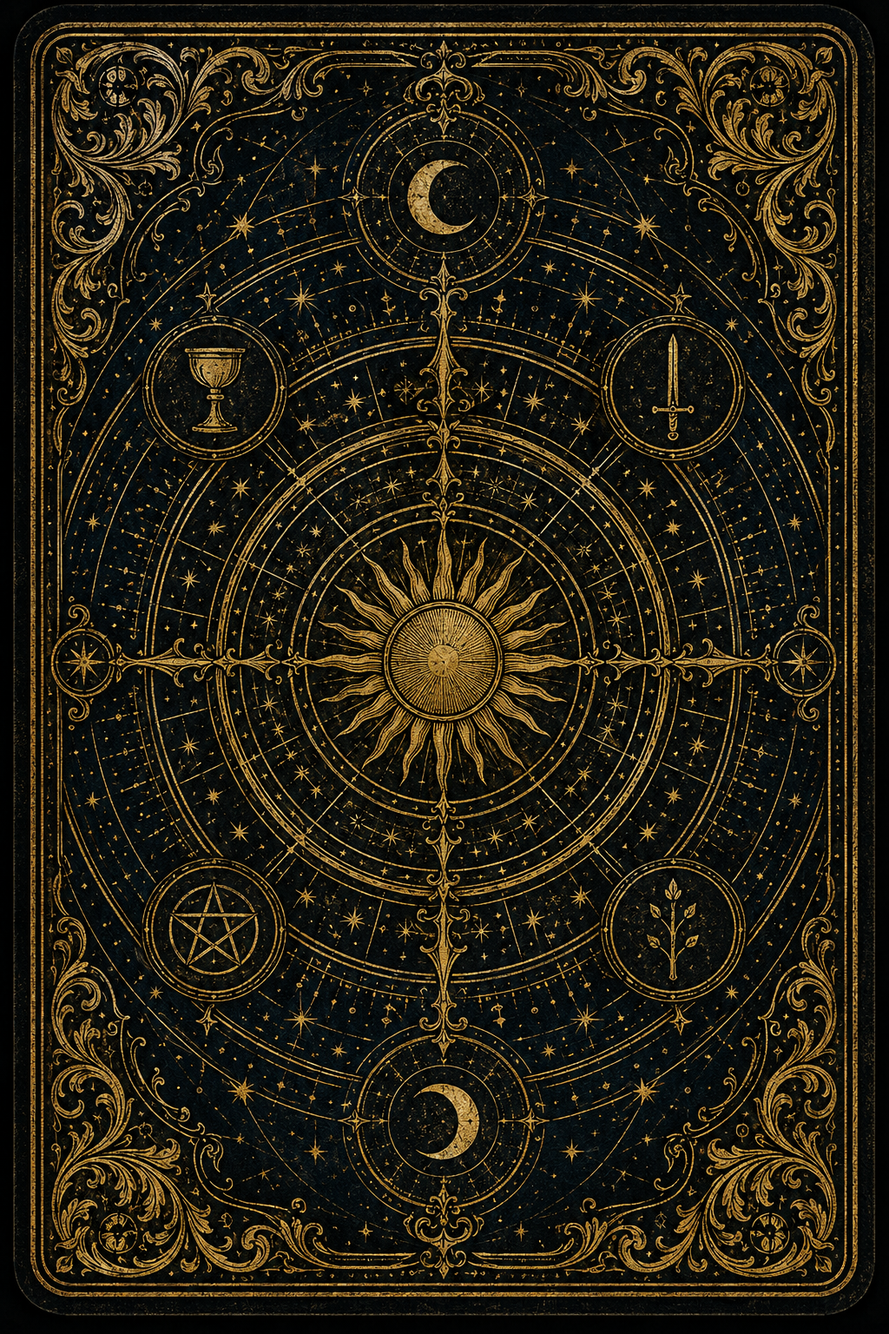
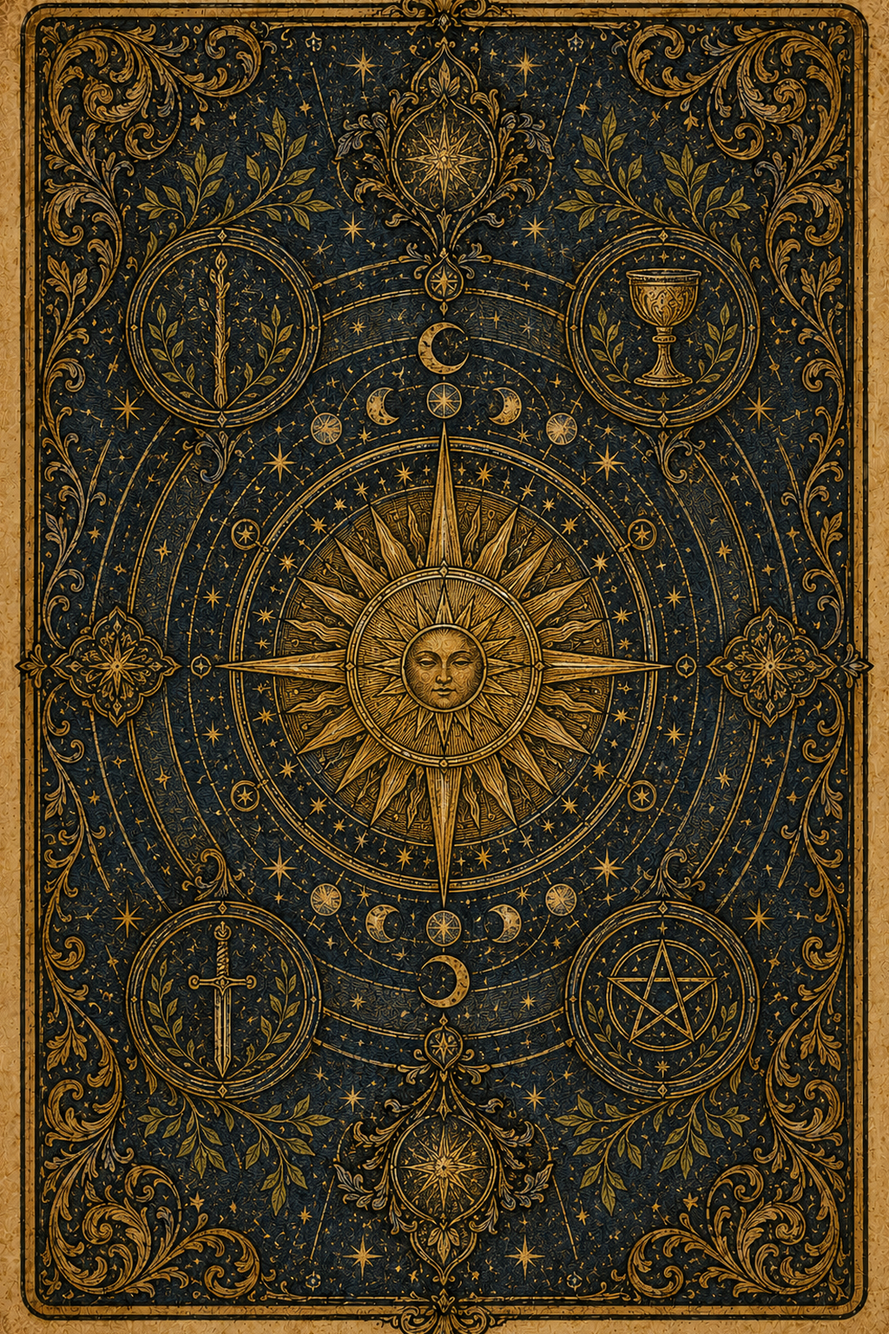
Add tarot card back preview to virtual deck

diff --git a/telegram_bot/handlers.py b/telegram_bot/handlers.py
@@ -28,7 +28,7 @@ from app_core.tarot.selection import (
     create_virtual_deck_draft,
 )
 from app_core.tarot.spreads import get_spread
-from telegram_bot.card_assets import get_oriented_card_image_path
+from telegram_bot.card_assets import get_card_back_image_path, get_oriented_card_image_path
 from telegram_bot.formatting import (
     build_follow_up_question_confirmation,
     build_question_confirmation,
@@ -697,8 +697,14 @@ async def _handle_question_text(message: Message, text: str) -> None:
         flow.awaiting_virtual_selection = True
         flow.virtual_deck_draft = create_virtual_deck_draft(spread_slug)
         flow.selected_indices = []
+        card_back_path = get_card_back_image_path()
+        if card_back_path is not None:
+            await message.answer_photo(
+                FSInputFile(card_back_path),
+            )
         await message.answer(
-            _virtual_selection_text(spread_slug, 0),
+            "▥ Виртуальная колода готова. Выбери карты интуитивно и не спеша.\n\n"
+            f"{_virtual_selection_text(spread_slug, 0)}",
             reply_markup=virtual_deck_keyboard(
                 [],
                 card_count=len(flow.virtual_deck_draft.cards),

diff --git a/telegram_bot/card_assets.py b/telegram_bot/card_assets.py
@@ -19,6 +19,8 @@ CARD_IMAGE_PATHS = (
 )
 
 CARD_IMAGE_EXTENSIONS = (".png", ".jpg", ".jpeg", ".webp")
+CARD_BACKS_DIR = PROJECT_ROOT / "assets" / "tarot" / "card_backs"
+DEFAULT_CARD_BACK_ASSET_NAME = "solar_arcana_seal.png"
 REVERSED_CARD_IMAGE_CACHE_DIR = (
     PROJECT_ROOT / "runtime" / "tarot_card_images" / "reversed"
 )
@@ -44,6 +46,13 @@ def get_oriented_card_image_path(card_slug: str, orientation: str) -> Optional[P
     if (orientation or "").strip() != "reversed":
         return source_path
     return _get_reversed_card_image_path(source_path)
+
+
+def get_card_back_image_path(asset_name: str = DEFAULT_CARD_BACK_ASSET_NAME) -> Optional[Path]:
+    candidate = CARD_BACKS_DIR / (asset_name or "").strip()
+    if candidate.is_file():
+        return candidate
+    return None
 
 
 def _get_reversed_card_image_path(source_path: Path) -> Path:

diff --git a/tests/test_tarot_card_assets.py b/tests/test_tarot_card_assets.py
@@ -3,7 +3,7 @@ from __future__ import annotations
 from pathlib import Path
 
 from app_core.tarot.deck import list_cards
-from telegram_bot.card_assets import CARD_IMAGE_EXTENSIONS, CARD_IMAGE_PATHS
+from telegram_bot.card_assets import CARD_IMAGE_EXTENSIONS, CARD_IMAGE_PATHS, get_card_back_image_path
 
 
 PROJECT_ROOT = Path(__file__).resolve().parents[1]
@@ -29,3 +29,7 @@ def test_card_assets_directory_is_primary_lookup_path() -> None:
 
 def test_virtual_deck_card_back_asset_exists() -> None:
     assert CARD_BACK_PATH.is_file()
+
+
+def test_card_back_asset_resolver_returns_expected_path() -> None:
+    assert get_card_back_image_path() == CARD_BACK_PATH
